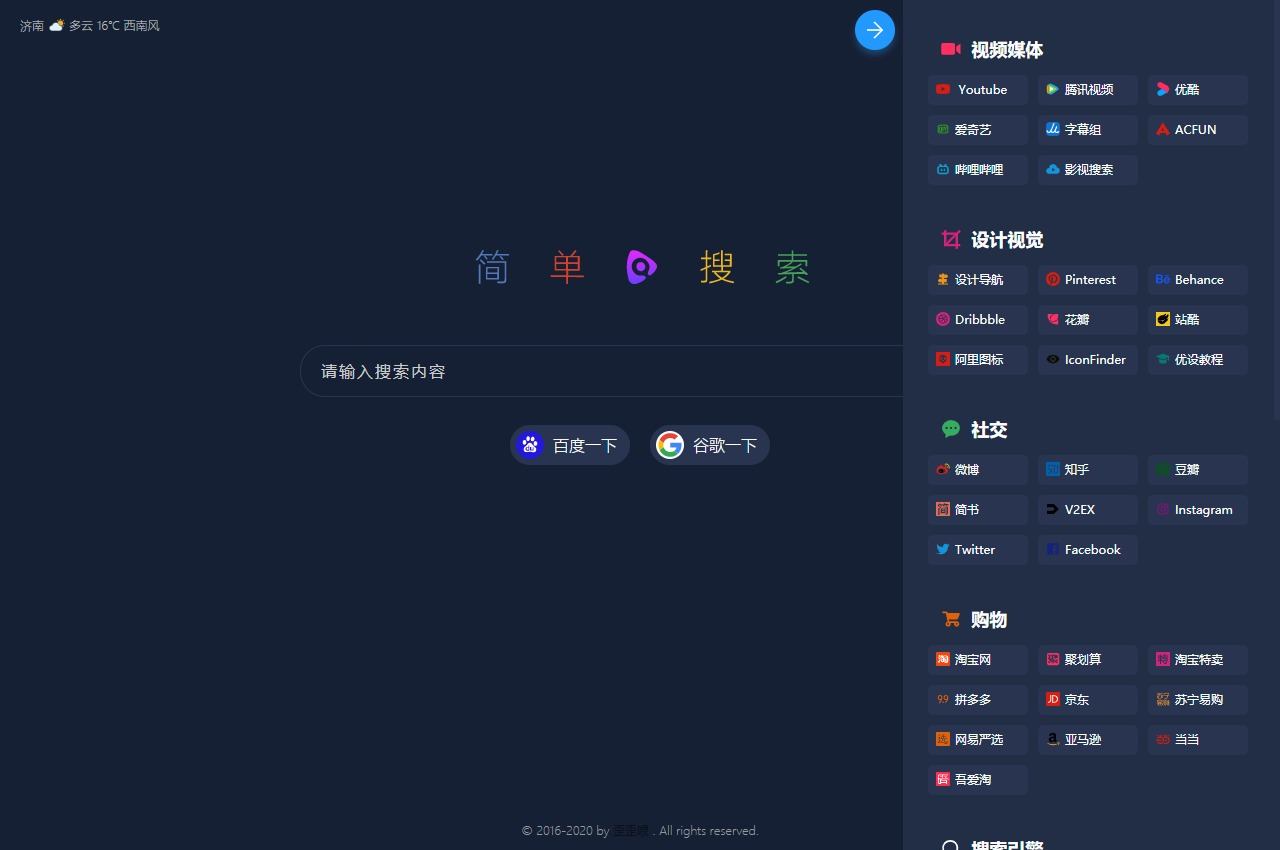
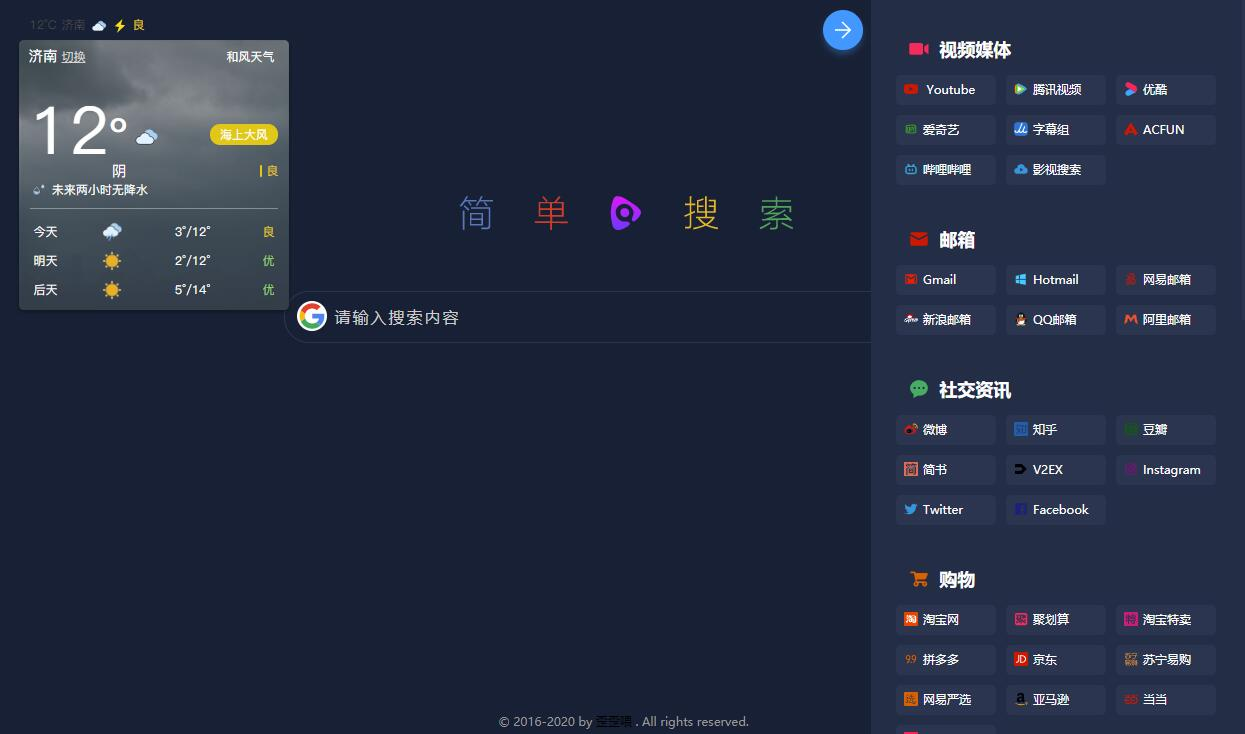
new

diff --git a/sou.js b/sou.js
@@ -2,39 +2,18 @@
 作者:D.Young
 主页：https://yyv.me/
 github：https://github.com/5iux/sou
-日期：2019-07-26
+日期：2020/03/24
 版权所有，请勿删除
 */
 
 $(document).ready(function() {
     //判断窗口大小，添加输入框自动完成
-    var wid = $("body").width();
-    if (wid < 640) {
-        $(".wd").attr('autocomplete', 'off');
-    }else{
-        $(".wd").focus();
-    }
-    //按钮
-    $(".sou li").click(function() {
-        var dt = $(this).attr('data-s');
-        wd = $(".wd").val();
-        if (dt == "google") {
-            if (wd == "" || wd == null) {
-                window.location.href = "https://www.google.com/?hl=zh";
-            } else {
-                $(".t").val("g");
-                $("form").submit();
-            }
-        } else {
-            if (wd == "" || wd == null) {
-                window.location.href = "https://www.baidu.com/?tn=simple";
-            } else {
-                $(".t").val("b");
-                $("form").submit();
-            }
-        }
-
-    });
+    /* var wid = $("body").width();
+     if (wid < 640) {
+         $(".wd").attr('autocomplete', 'off');
+     }else{
+         $(".wd").focus();
+     }*/
     //菜单点击
     $("#menu").click(function(event) {
         $(this).toggleClass('on');
@@ -45,6 +24,7 @@ $(document).ready(function() {
         $(".on").removeClass('on');
         $(".list").addClass('closed');
         $(".mywth").removeClass('hidden');
+        $('#word').hide();
     });
     $(".mywth").click(function(event) {
         var wt = $("body").width();
@@ -55,3 +35,44 @@ $(document).ready(function() {
     });
 });
 
+//关键词sug
+$(function() {
+    //当键盘键被松开时发送Ajax获取数据
+    $('.wd').keyup(function() {
+        var keywords = $(this).val();
+        if (keywords == '') { $('#word').hide(); return };
+        $.ajax({
+            url: 'https://suggestion.baidu.com/su?wd=' + keywords,
+            dataType: 'jsonp',
+            jsonp: 'cb', //回调函数的参数名(键值)key
+            // jsonpCallback: 'fun', //回调函数名(值) value
+            beforeSend: function() {
+                $('#word').append('<div>正在加载。。。</div>');
+            },
+            success: function(data) {
+                $('#word').empty().show();
+                if (data.s == '') {
+                    //$('#word').append('<div class="error">Not find  "' + keywords + '"</div>');
+                    $('#word').hide();
+                }
+                $.each(data.s, function() {
+                    $('#word').append('<div class="click_work"><svg class="icon" style=" width: 15px; height: 15px; opacity: 0.5;" aria-hidden="true"><use xlink:href="#icon-sousuo"></use></svg> ' + this + '</div>');
+                })
+            },
+            error: function() {
+                $('#word').empty().show();
+                //$('#word').append('<div class="click_work">Fail "' + keywords + '"</div>');
+                $('#word').hide();
+            }
+        })
+    })
+    //点击搜索数据复制给搜索框
+    $(document).on('click', '.click_work', function() {
+        var word = $(this).text();
+        $('.wd').val(word);
+        $('#word').hide();
+        $("form").submit();
+        // $('#texe').trigger('click');触发搜索事件
+    })
+
+})

diff --git a/style.css b/style.css
@@ -29,7 +29,7 @@ body {
 
 html {
     font-family: 'Noto Sans SC Sliced', PingFangSC-Light, Microsoft YaHei UI, Microsoft YaHei, helvetica, sans-serif;
-    font-weight: 300;
+    font-weight: 500;
     color: #000;
 }
 
@@ -117,9 +117,22 @@ a {
     border: 1px solid #ddd;
     border-radius: 25px;
     line-height: 100%;
-    text-indent: 20px;
     font-size: 18px;
+    text-indent: 50px;
 }
+.con .sou form .lg {
+        display: block;
+        width: 30px;
+        height: 30px;
+        position: absolute;
+        left: 13px;
+        top: 10px;
+       /* background: url(icon/lg.svg) no-repeat center/cover;*/
+        border-radius: 50%;
+        overflow: hidden;
+        cursor: pointer;
+}
+
 
 .con .sou form .wd:focus {
     background: #fff;
@@ -141,7 +154,7 @@ a {
     border-radius: 50%;
     color: #777;
 }
-
+/*
 .con .sou ul {
     height: 40px;
     margin: 0 auto;
@@ -182,6 +195,24 @@ a {
     background-position: center;
     background-color: #fff;
     transform: scale(0.7);
+}*/
+.con .sou #word{
+    width: calc(100% - 70px);
+    border: 15px solid #f1f1f1;
+    border-radius: 10px;
+    left:20px;
+    position: absolute;z-index: 10000; top:65px;
+    max-height: 150px;
+    background: #f1f1f1;
+    line-height: 30px; font-style: 16px;overflow: hidden;
+    display: none; 
+}
+.con .sou #word .click_work{
+    cursor: pointer;
+    color: #555;
+}
+.con .sou #word .click_work:hover{
+    color: #29f;
 }
 
 .foot {
@@ -458,23 +489,6 @@ svg.icon {
     .con {
         margin: 0;
         top: 0px;
-    }
-
-    .con .sou form .wd {
-        text-indent: 50px;
-    }
-
-    .con .sou form:after {
-        content: "";
-        display: block;
-        width: 30px;
-        height: 30px;
-        position: absolute;
-        left: 10px;
-        top: 10px;
-        background: url(icon/lg.svg) no-repeat center/cover;
-        border-radius: 50%;
-        overflow: hidden;
     }
 
     .con .shlogo {

diff --git a/index.php b/index.php
@@ -1,14 +1,12 @@
 <?php
 //禁用错误报告
 error_reporting(0);
-$t=htmlspecialchars($_POST["t"]);
+$t=htmlspecialchars($_GET["t"]);
 $q=htmlspecialchars($_POST["q"]);
 if (empty($q)) {
 }else{
   if ($t=="b"){
     echo'<script>window.location.href="//www.baidu.com/s?ie=utf-8&word='.$q.'";</script>';
-  }else if($t=="g"){
-    echo'<script>window.location.href="https://www.google.com.hk/search?hl=zh&q='.$q.'";</script>';
   }else{
     //默认谷歌
     echo'<script>window.location.href="https://www.google.com.hk/search?hl=zh&q='.$q.'";</script>';
@@ -21,6 +19,7 @@ if (empty($q)) {
   <meta charset="UTF-8">
   <meta name="viewport" content="width=device-width, user-scalable=no, initial-scale=1.0, maximum-scale=1.0, minimum-scale=1.0">
   <meta http-equiv="Cache-Control" content="no-siteapp">
+  <meta name="referrer" content="no-referrer" />
   <meta name="theme-color" content="#ffffff">
   <link rel="icon" href="icon/192.png" sizes="192x192" />
   <link rel="apple-touch-icon-precomposed" href="icon/300.png" />
@@ -36,7 +35,7 @@ if (empty($q)) {
   <title>简单搜索</title>
   <link href="style.css?t=<?php echo date("ymdhi"); ?>" rel="stylesheet">
   <script src="https://cdn.jsdelivr.net/npm/jquery@3.3.1/dist/jquery.min.js"></script>
-  <script src="//at.alicdn.com/t/font_1230786_59ub5vczww4.js"></script>
+  <script src="https://at.alicdn.com/t/font_1230786_59ub5vczww4.js"></script>
   <script src="sou.js?t=<?php echo date("ymdhi"); ?>"></script>
 <style>
 </style>
@@ -56,7 +55,7 @@ if (empty($q)) {
             <li><a rel="nofollow" href="http://www.zmz2019.com/" target="_blank"><svg class="icon" aria-hidden="true"><use xlink:href="#icon-zimu"></use></svg>字幕组</a></li>
             <li><a rel="nofollow" href="http://www.acfun.cn/index.html" target="_blank"><svg class="icon" aria-hidden="true"><use xlink:href="#icon-acfun"></use></svg>ACFUN</a></li>
             <li><a rel="nofollow" href="https://www.bilibili.com/" target="_blank"><svg class="icon" aria-hidden="true"><use xlink:href="#icon-bili"></use></svg>哔哩哔哩</a></li>
-            <li><a rel="nofollow" href="https://dagu.ml" target="_blank"><svg class="icon" aria-hidden="true"><use xlink:href="#icon-yunbo"></use></svg>影视搜索</a></li>
+            <li><a rel="nofollow" href="https://yingshi.ml" target="_blank"><svg class="icon" aria-hidden="true"><use xlink:href="#icon-yunbo"></use></svg>影视搜索</a></li>
           <!------> 
             <li class="title"><svg class="icon" aria-hidden="true"><use xlink:href="#icon-youxiang"></use></svg> 邮箱</li>
             <li><a rel="nofollow" href="https://mail.google.com/mail/u/0/#inbox" target="_blank"><svg class="icon" aria-hidden="true"><use xlink:href="#icon-gmail"></use></svg>Gmail</a></li>
@@ -66,7 +65,7 @@ if (empty($q)) {
             <li><a rel="nofollow" href="https://mail.qq.com/" target="_blank"><svg class="icon" aria-hidden="true"><use xlink:href="#icon-QQ"></use></svg>QQ邮箱</a></li>
             <li><a rel="nofollow" href="https://qiye.aliyun.com/" target="_blank"><svg class="icon" aria-hidden="true"><use xlink:href="#icon-yunyouxiang"></use></svg>阿里邮箱</a></li>
           <!------>
-            <li class="title"><svg class="icon" aria-hidden="true"><use xlink:href="#icon-msg"></use></svg> 社交</li>
+            <li class="title"><svg class="icon" aria-hidden="true"><use xlink:href="#icon-msg"></use></svg> 社交资讯</li>
             <li><a rel="nofollow" href="https://www.weibo.com" target="_blank"><svg class="icon" aria-hidden="true"><use xlink:href="#icon-weibo"></use></svg>微博</a></li>
             <li><a rel="nofollow" href="https://www.zhihu.com/" target="_blank"><svg class="icon" aria-hidden="true"><use xlink:href="#icon-zhihu"></use></svg>知乎</a></li>
             <li><a rel="nofollow" href="https://www.douban.com/" target="_blank"><svg class="icon" aria-hidden="true"><use xlink:href="#icon-douban"></use></svg>豆瓣</a></li>
@@ -118,7 +117,6 @@ if (empty($q)) {
             <li><a rel="nofollow" href="http://www.slimego.cn/" target="_blank"><svg class="icon" aria-hidden="true"><use xlink:href="#icon-shilaimu"></use></svg>史莱姆</a></li>
             <li><a rel="nofollow" href="https://feedly.com" target="_blank"><svg class="icon" aria-hidden="true"><use xlink:href="#icon-feedly"></use></svg>Feedly</a></li>         
             <li><a rel="nofollow" href="https://pan.baidu.com" target="_blank"><svg class="icon" aria-hidden="true"><use xlink:href="#icon-baiduyun"></use></svg>百度网盘</a></li>
-            <li><a rel="nofollow" href="https://www.baiduwp.com" target="_blank"><svg class="icon" aria-hidden="true"><use xlink:href="#icon-cloudflare"></use></svg>网盘解析</a></li>
             <li><a rel="nofollow" href="https://www.mdeditor.com/" target="_blank"><svg class="icon" aria-hidden="true"><use xlink:href="#icon-md"></use></svg>MD编辑器</a></li>
             <li><a rel="nofollow" href="http://cubic-bezier.com" target="_blank"><svg class="icon" aria-hidden="true"><use xlink:href="#icon-quxian"></use></svg>贝赛尔曲线</a></li>
             <li><a rel="nofollow" href="/base64/" target="_blank"><svg class="icon" aria-hidden="true"><use xlink:href="#icon-base64"></use></svg>Base64</a></li>
@@ -172,14 +170,23 @@ if (empty($q)) {
             <div class="shlogo" ></div>
             <div class="sou">
                 <form action="" method="post" target="_self">
-                    <input class="t" type="text" value="" name="t" hidden>
+                   <?php 
+                   if ($t=="b"){
+                     echo'<div class="lg" style="background: url(icon/baidu.svg) no-repeat center/cover;" onclick="window.location.href=\'?t=\';"></div>';
+                   }else{
+                     echo'<div class="lg" style="background: url(icon/g.svg) no-repeat center/cover;" onclick="window.location.href=\'?t=b\';"></div>';
+                   }
+
+                    ?>
+                    <!--input class="t" type="text" value="" name="t" hidden-->
                     <input class="wd" type="text" placeholder="请输入搜索内容" name="q" x-webkit-speech lang="zh-CN" autocomplete="off">
                     <button><svg class="icon" style=" width: 21px; height: 21px; opacity: 0.5;" aria-hidden="true"><use xlink:href="#icon-sousuo"></use></svg></button>
                 </form>
-                <ul>
+                <div id="word"></div>
+                <!--ul>
                     <li data-s="baidu" target="_blank"><i style="background-image: url(icon/baidu.svg);"></i>百度一下</li>
                     <li data-s="google" target="_blank"><i style="background-image: url(icon/g.svg);"></i>谷歌一下</li>
-                </ul>
+                </ul-->
             </div>
         </div>
         <div class="foot">© 2016-<?php echo date("Y") ?> by <a href="https://yyv.me/">歪歪喂</a> . All rights reserved.</div>
@@ -188,7 +195,7 @@ if (empty($q)) {
 作者:D.Young
 主页：https://yyv.me/
 github：https://github.com/5iux/sou
-日期：2020-03-23
+日期：2020-03-24
 版权所有，请勿删除
 -->
 </body>

diff --git a/README.md b/README.md
@@ -7,6 +7,10 @@
 ![简单搜索](https://raw.githubusercontent.com/5iux/sou/master/img0726.gif)
 > （图片效果，以实际页面为准） 
 
+## 下载地址：  
+![Releases](https://github.com/5iux/sou/releases)  
+
+
 ### 新增黑暗模式（理论上支持）
 ![黑暗模式](https://raw.githubusercontent.com/5iux/sou/master/dark.jpg)   
 
@@ -16,7 +20,8 @@
  
 + php版本：[https://5iux.cn/](https://5iux.cn/)  
 
-+ html+js+css版本(源码自行另存就好)：[https://g.5iux.cn/](https://g.5iux.cn/)  
++ html+js+css版本：[https://g.5iux.cn/](https://g.5iux.cn/)  
++ html+js+css源码：[https://github.com/5iux/5iux.github.io](https://github.com/5iux/5iux.github.io)  
 
 
 
